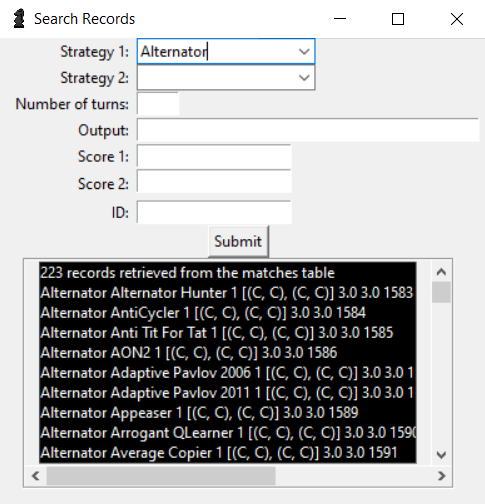
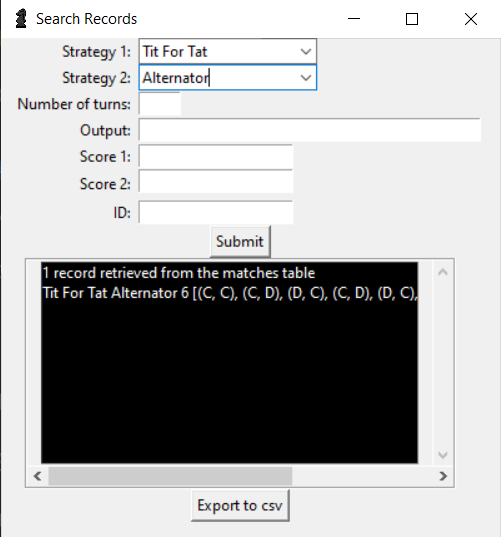
added Export to csv button to Search menu

diff --git a/interactivegt.py b/interactivegt.py
@@ -815,10 +815,11 @@ def export(fileName, records):
     with open(fileName, 'w') as file:
         for i, record in enumerate(records):
             print(record)
+            print("TWO: ", record[2])
             file.write(
                 "\"" + str(record[0]) + "\",\"" + 
                 str(record[1])+ "\",\"" + 
-                str(records[2]) + "\",\"" + 
+                str(record[2]) + "\",\"" + 
                 str(record[3]) + "\",\"" + 
                 str(record[4]) + "\",\"" + 
                 str(record[5]) + "\",\"" + 
@@ -826,7 +827,6 @@ def export(fileName, records):
             if i < len(records) - 1:
                 file.write("\n")
         
-    
 def exportGetFileName():
      # Create a database or connect to one
     conn = sqlite3.connect('match.db')
@@ -854,6 +854,22 @@ def exportGetFileName():
     conn.commit()
     # Close Connection
     conn.close()
+    return
+
+def exportSearchGetFileName(records):    
+    top = Toplevel()
+    top.title("Export to csv")
+    top.iconbitmap("knight.ico")
+    top.geometry("250x30")
+    
+    fileNameLabel = Label(top, text="Enter a File Name: ")
+    fileNameEntry = Entry(top, width=15)
+    fileNameButton = Button(top, text="Enter", command=lambda: export(fileNameEntry.get(), records))
+    
+    # Putting everything in the top window
+    fileNameLabel.grid(row=0, column=0)
+    fileNameEntry.grid(row=0, column=1)
+    fileNameButton.grid(row=0, column=2)
     return
 
 def myfunction(event):
@@ -1336,7 +1352,7 @@ def showRecords():
     for record in recordsList:
         showRecordsListBox.insert(0, record)
     
-    myFrame.grid(row=11, column=0, columnspan=2)
+    myFrame.grid(row=13, column=0, columnspan=2)
     showRecordsListBox.grid(row=0, column=0, padx=10, sticky=NSEW)
     xscrollbar.grid(row=1, column=0, columnspan=2, sticky=EW)
     xscrollbar.config(command = showRecordsListBox.xview)
@@ -1590,6 +1606,9 @@ def submit():
     c.execute(searchQuery)
     
     records = c.fetchall()
+    for record in records:
+        print("record: ", record)
+    
     numRecords = len(records)
     
     proceed = True
@@ -1614,6 +1633,8 @@ def submit():
         showRecordsListBox = Listbox(searchResultsFrame, width=50, xscrollcommand=xscrollbar.set, yscrollcommand=yscrollbar.set, bg="black", fg="white")
         for record in recordsList:
             showRecordsListBox.insert(0, record)
+            
+        exportSearchButton = Button(topSearch, text="Export to csv", command=lambda: exportSearchGetFileName(records))
         
         searchResultsFrame.grid(row=11, column=0, columnspan=2)
         showRecordsListBox.grid(row=0, column=0, padx=10, sticky=NSEW)
@@ -1621,6 +1642,8 @@ def submit():
         xscrollbar.config(command = showRecordsListBox.xview)
         yscrollbar.grid(row=0, column=1, sticky=NS)
         yscrollbar.config(command = showRecordsListBox.yview)
+        
+        exportSearchButton.grid(row=12, column=0, columnspan=2)
         
         topSearch.geometry("400x400")
         
